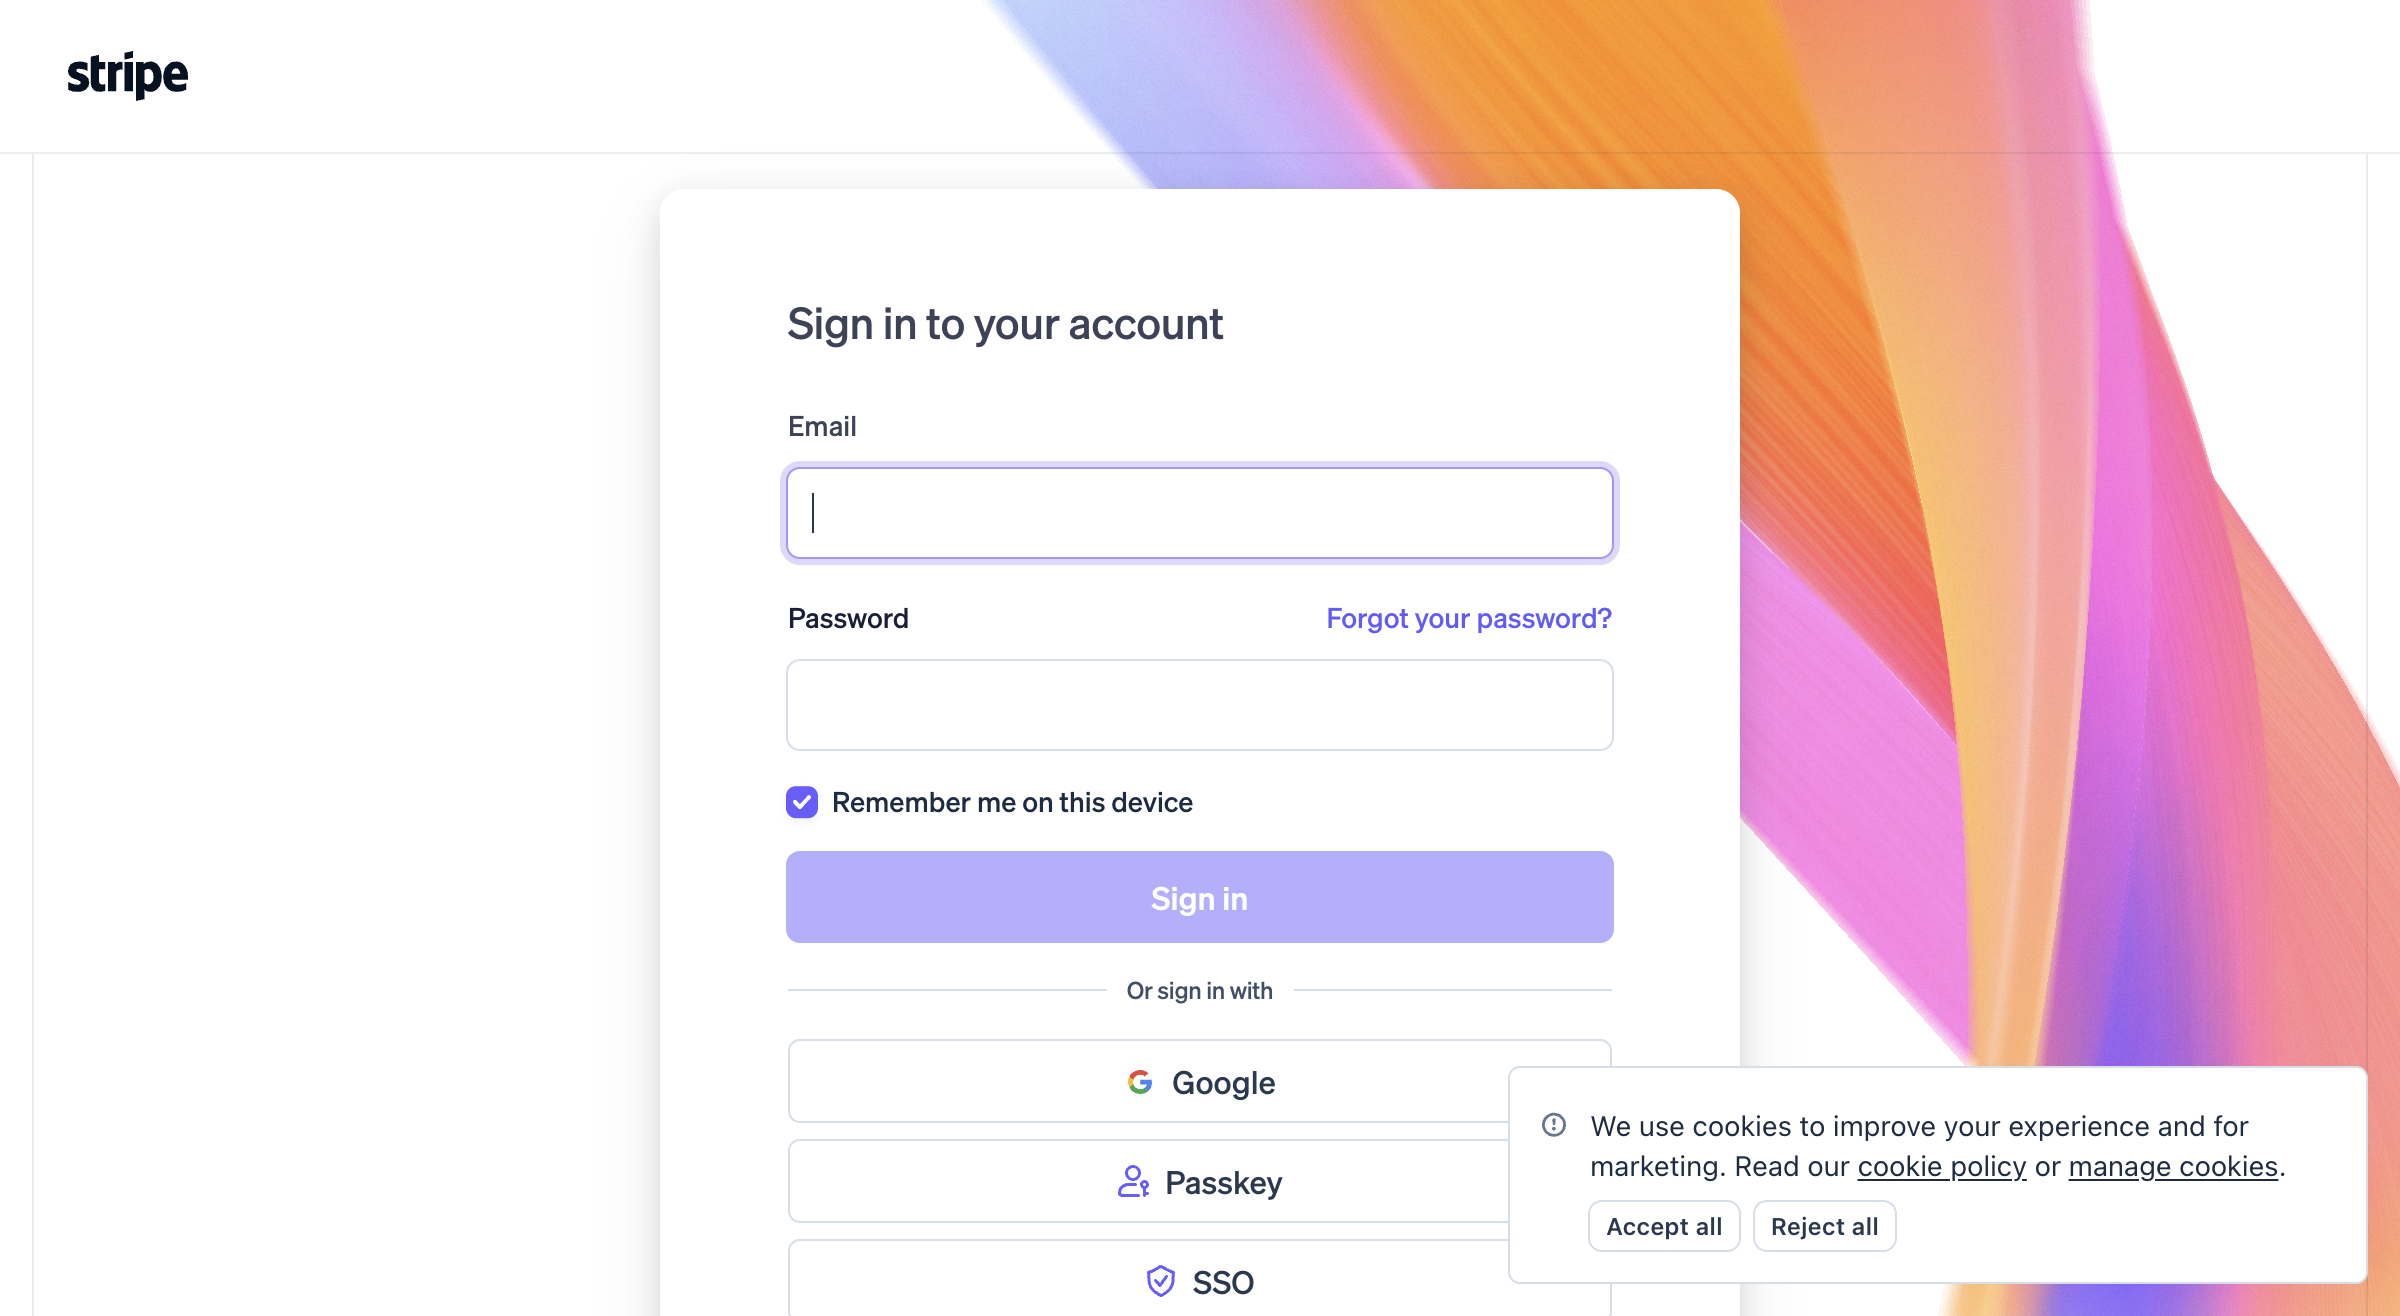
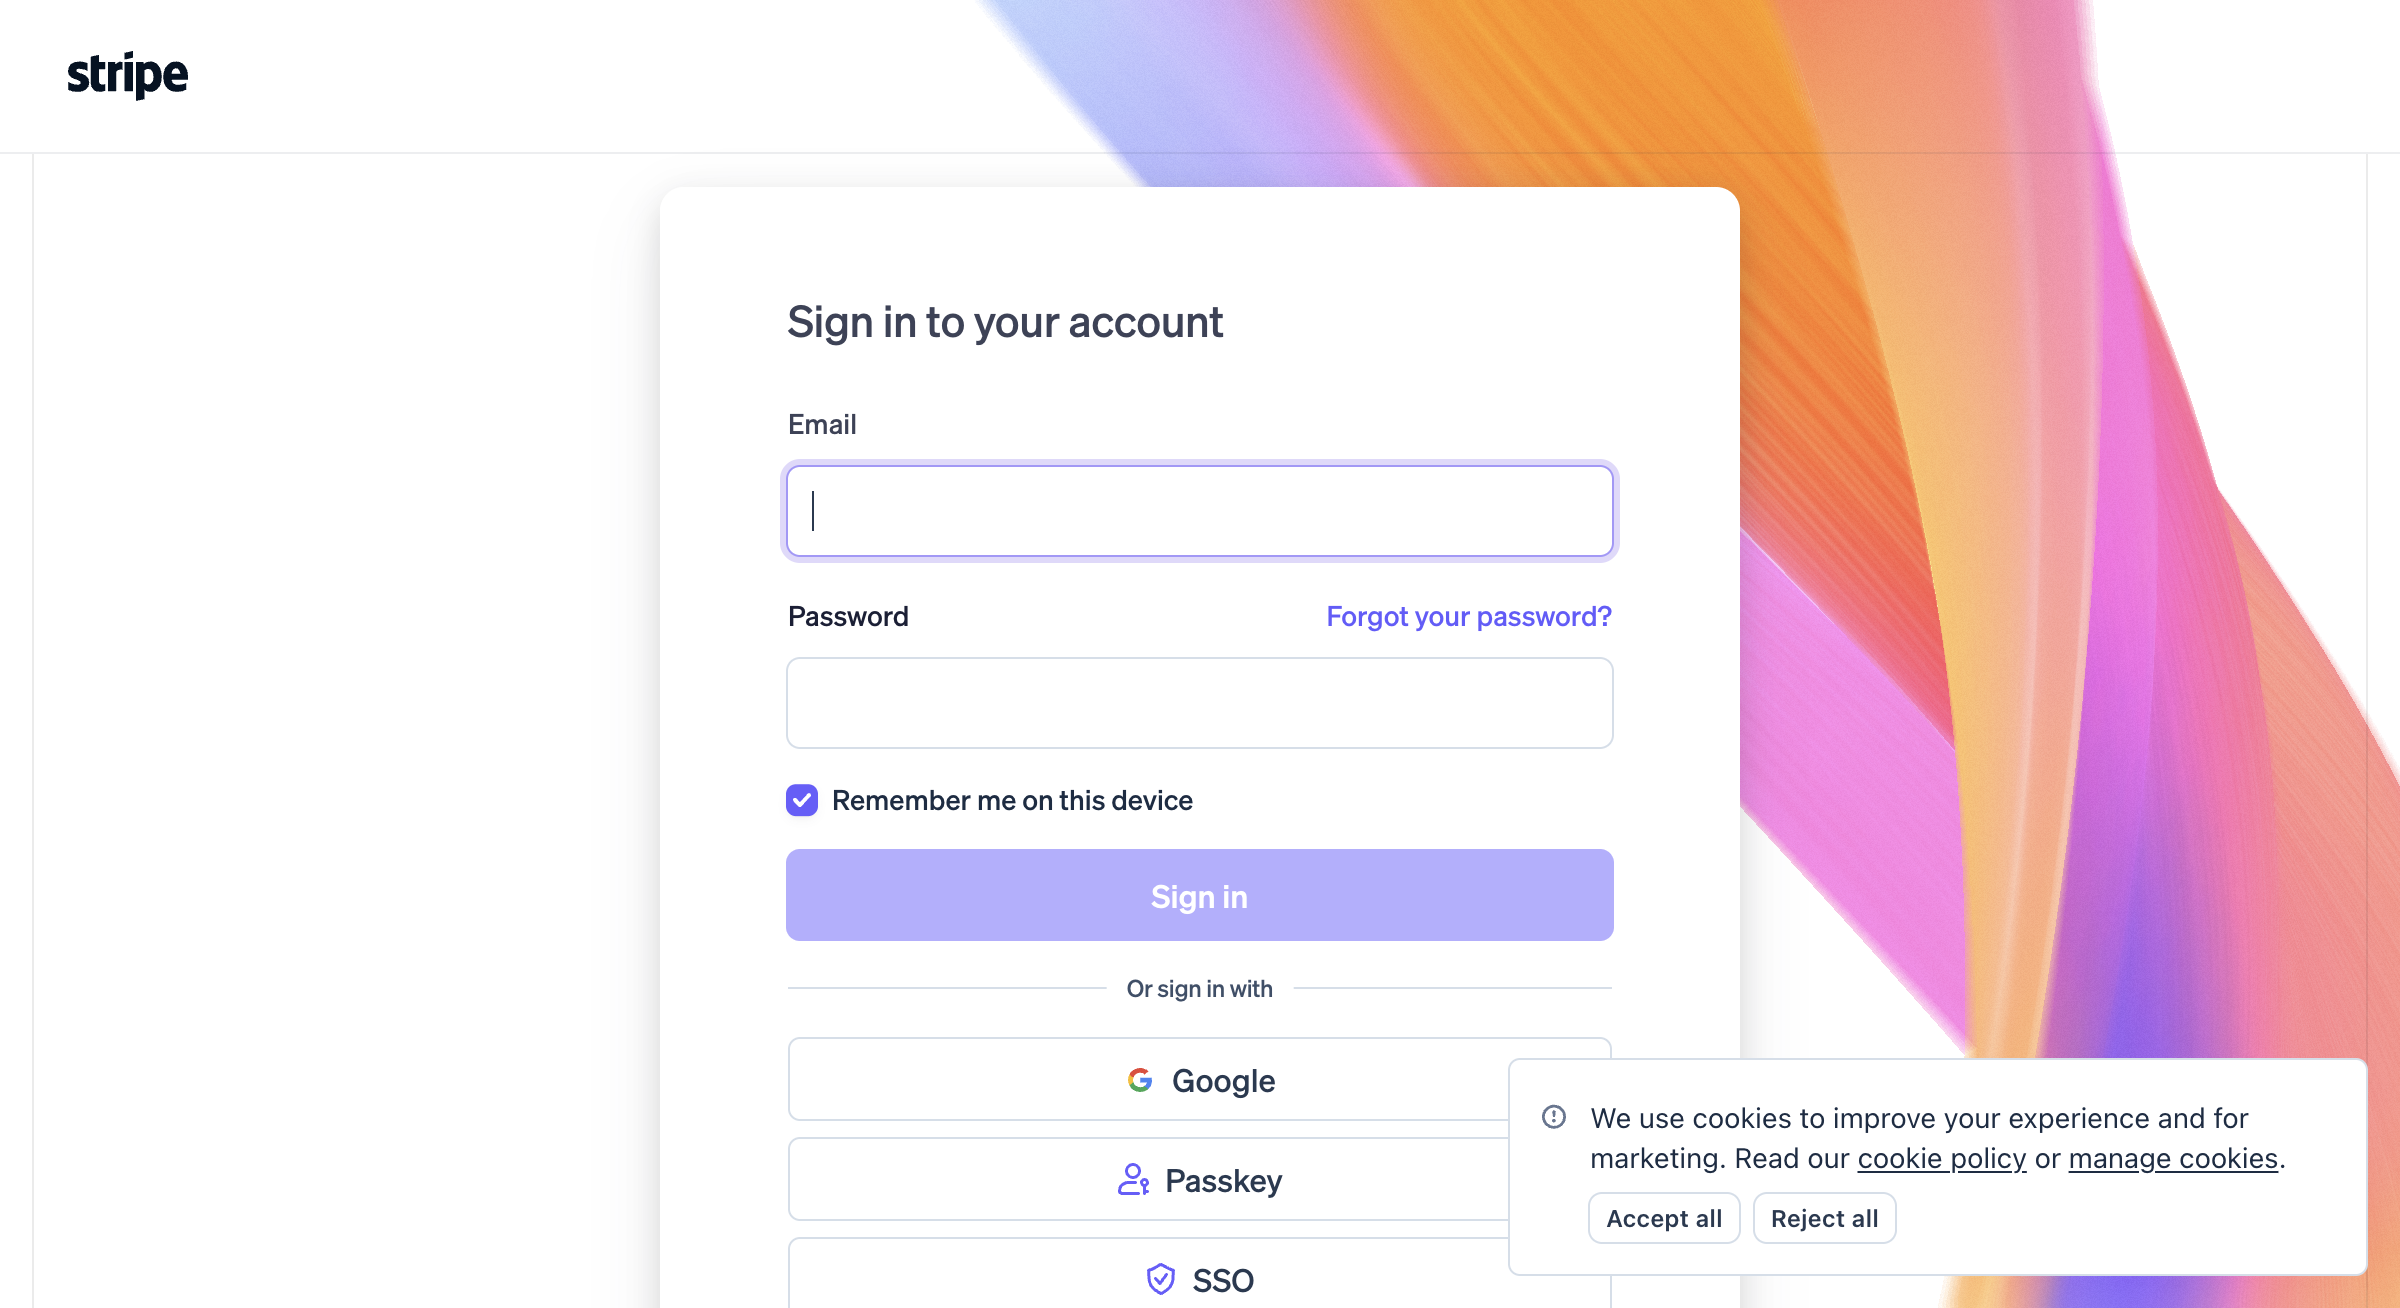
UI Automation: Synchronize wait utilities and secure dashboard layout anchors

diff --git a/api-testing/scripts/day63.py b/api-testing/scripts/day63.py
@@ -5,25 +5,21 @@ print("Initializing Chrome WebDriver...")
 driver = webdriver.Chrome()
 
 try:
-
-    print("Navigating to Stripe Login/Dashboard Page...")
+    print("Navigating to Stripe Login Page...")
     driver.get("https://dashboard.stripe.com/login")
-
-
+    
     print("Waiting for page elements to render...")
     time.sleep(5)
-
-
+    
     output_filename = "stripe_dashboard.png"
     print(f"Capturing screenshot programmatically as {output_filename}...")
     driver.save_screenshot(output_filename)
-
+    
     print("Screenshot saved successfully!")
 
 except Exception as e:
     print(f"An error occurred during automation: {e}")
 
 finally:
-
     print("Closing the automated browser session...")
     driver.quit()